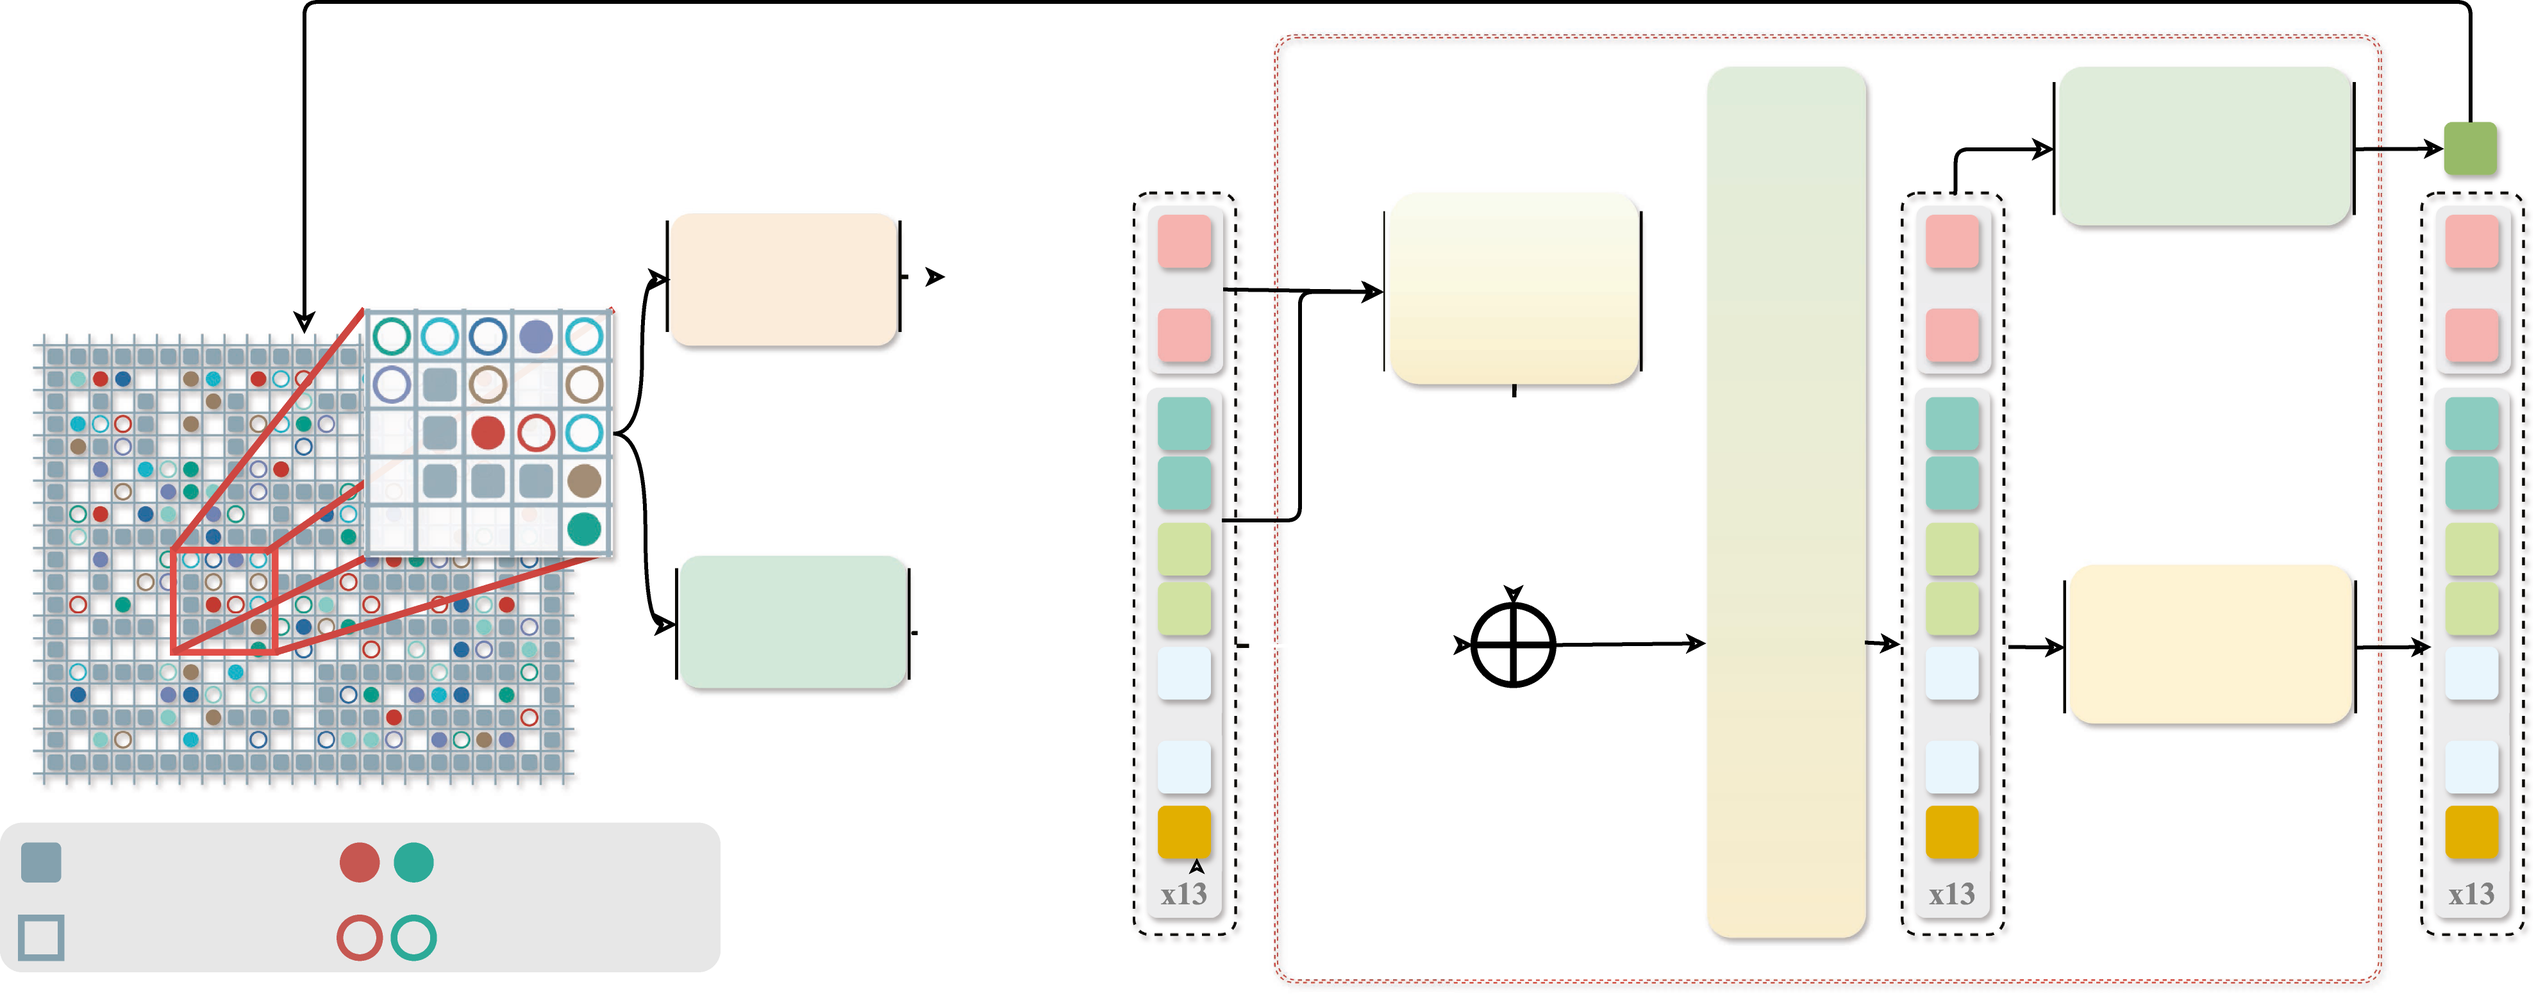
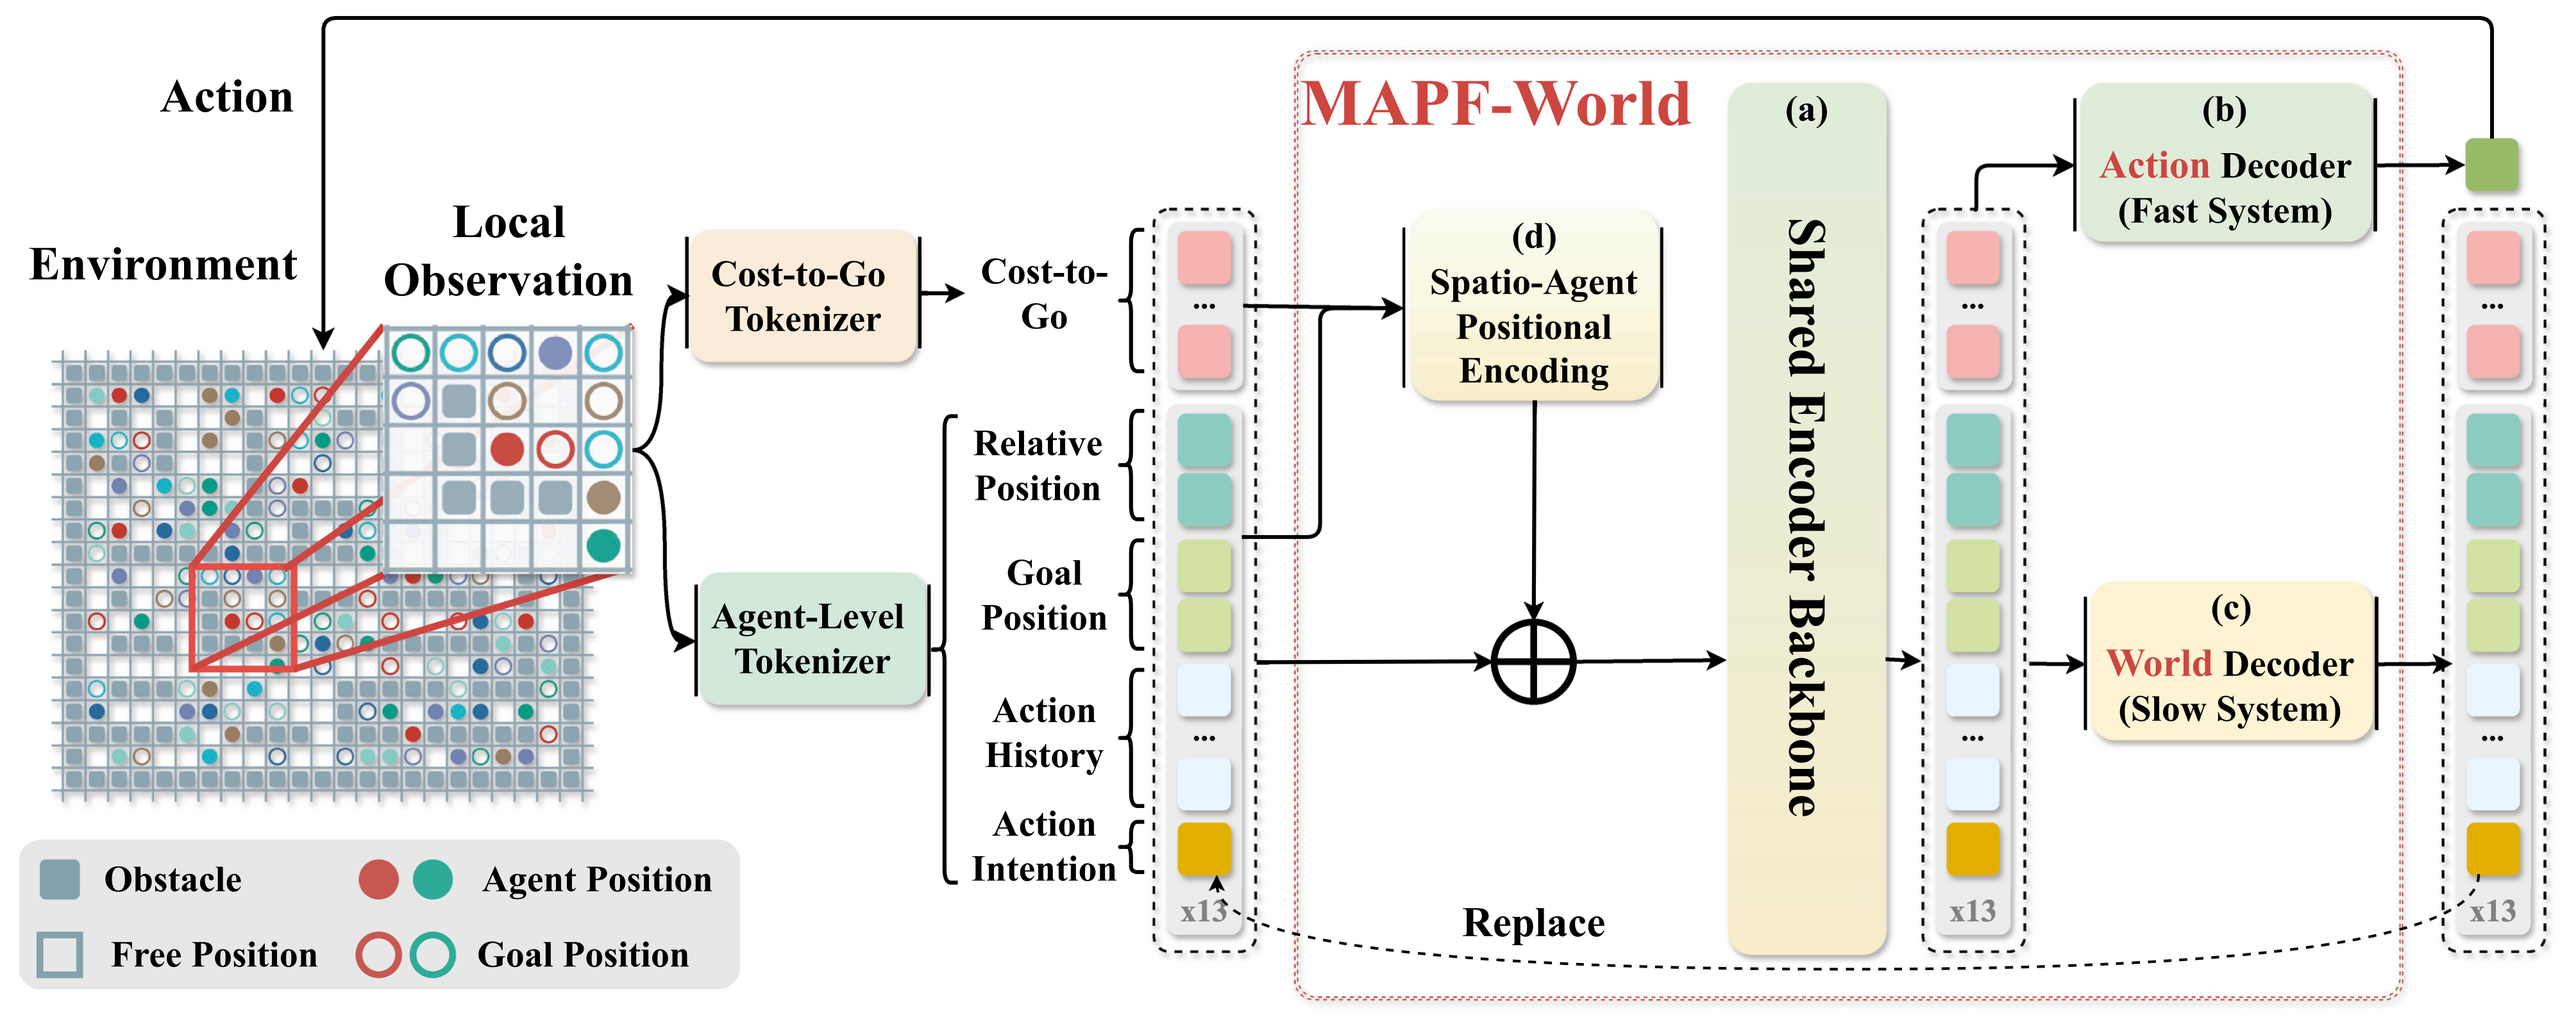
Render complete MAPF-World figure with overlaid labels

diff --git a/PUBLICATION_FIGURES.md b/PUBLICATION_FIGURES.md
@@ -13,16 +13,17 @@ outside the website source and public assets, so they are not bundled or served.
 
 | Work | Local source PDF | Page / Figure | Full-resolution PNG |
 | --- | --- | --- | --- |
-| MAPF-World | MAPF-World_Action_World_Model_for_Multi-Agent_Path_Finding.pdf | 3 / 2 | 3956 x 1554 |
+| MAPF-World | MAPF-World_Action_World_Model_for_Multi-Agent_Path_Finding.pdf | 3 / 2 | 4017 x 1609 |
 | SLAW-Nav | SLAW.pdf | 5 / 1 | 2811 x 1152 |
 | cVAN | cVAN_A_Novel_Sleep_Staging_Method_via_Cross-View_Alignment_Network.pdf | 3 / 1 | 4036 x 1376 |
 | MCGA | MCGA.pdf | 4 / 1 | 1394 x 626 |
 | H-LIGO | H-LIGO.pdf | 5 / 1 | 1331 x 558 |
 | EnvPilot | EnvPilot.pdf | 4 / 1 | 3960 x 820 |
 
-Embedded raster figures are extracted at their native resolution without
-upscaling. EnvPilot's vector diagram is rendered from its figure region at
-720 dpi. MCGA and H-LIGO retain the resolution actually present in their PDFs;
+MAPF-World's complete figure region is rendered at 600 dpi, preserving the
+vector labels layered over its raster artwork. EnvPilot's vector diagram is
+rendered at 720 dpi. Other embedded raster figures are extracted at their native
+resolution without upscaling. MCGA and H-LIGO retain the resolution actually present in their PDFs;
 larger original author artwork would be needed for more detail.
 
 Lossless WebP previews are capped at 2400 pixels wide. Figure dialogs load the
